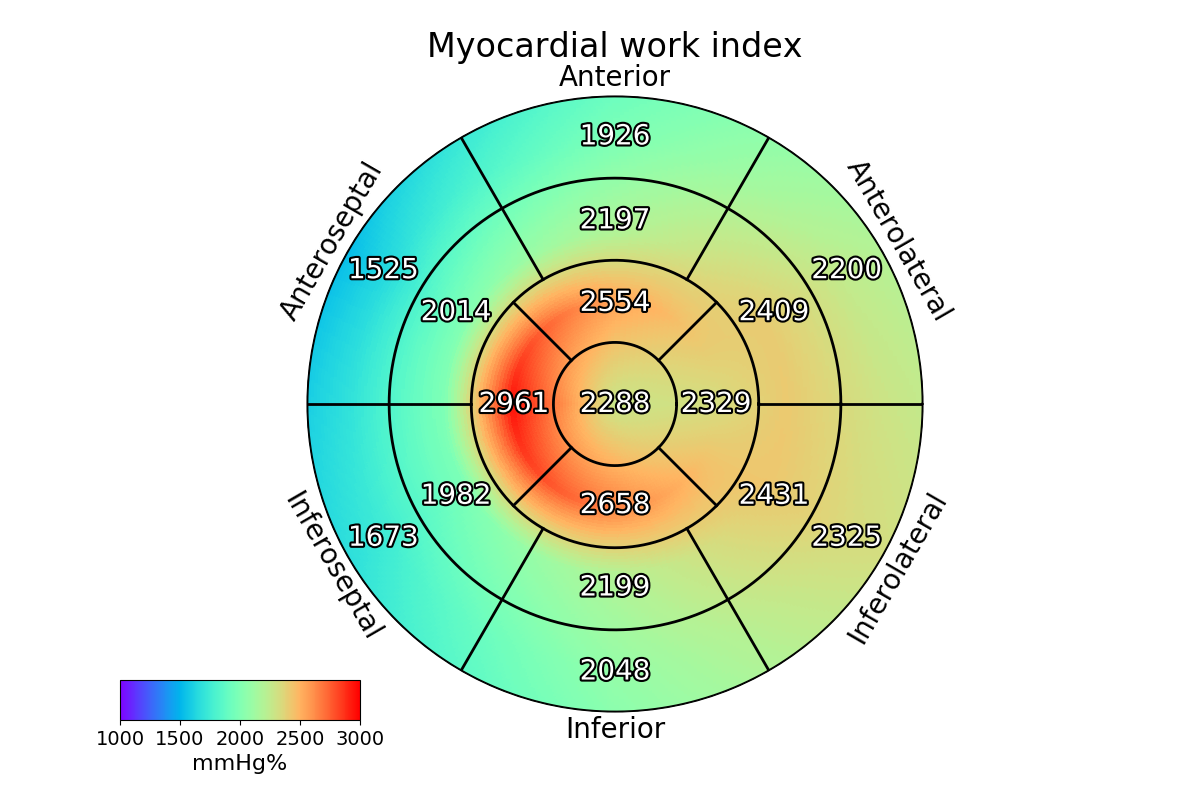
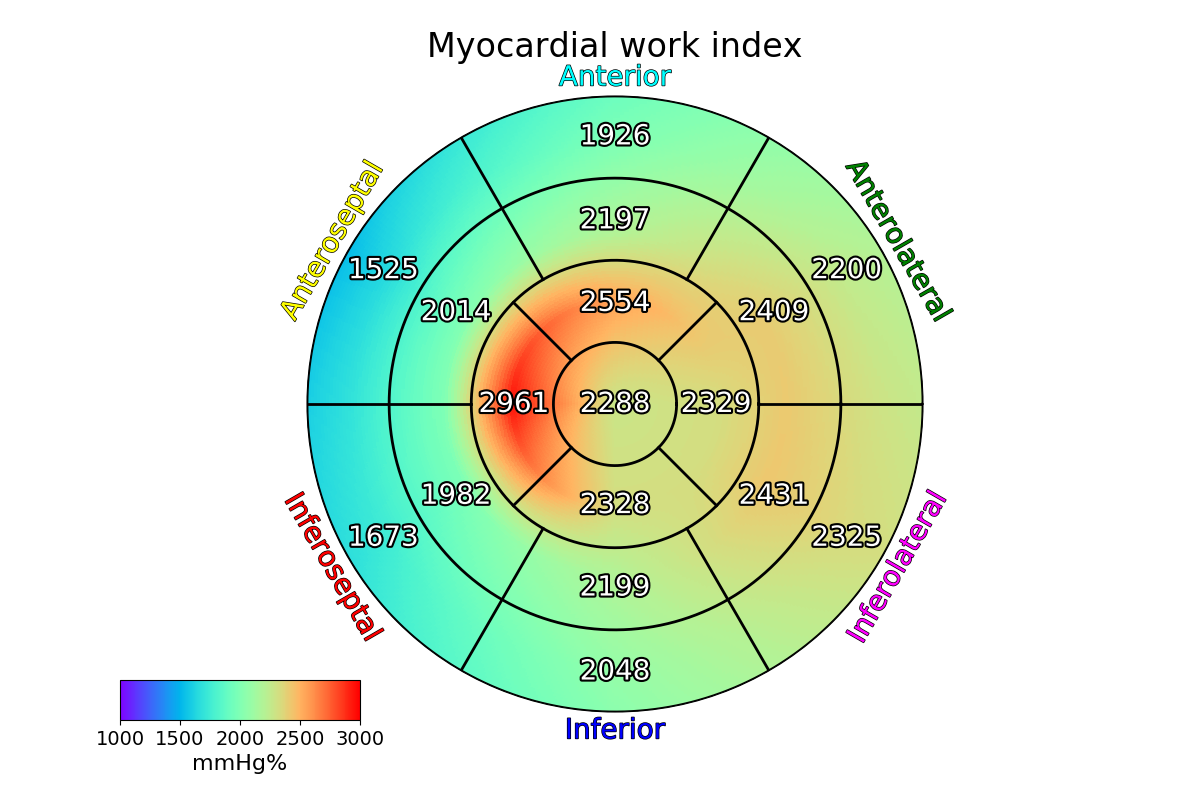
Color coded segment names

diff --git a/ahasmoothplot.py b/ahasmoothplot.py
@@ -42,6 +42,8 @@ class SmoothAHAPlot:
     # EchoPAC version of the names:
     ECHOP_SEGMENT_ABBRV = ['ANT', 'ANT_SEPT', 'SEPT', 'INF', 'POST', 'LAT']
 
+    COLORS = ['cyan', 'yellow', 'red', 'blue', 'magenta', 'green']
+
     def __init__(self, segments, output_path='', n_segments=17):
 
         assert n_segments in [17, 18], ('Please provide the correct number of segments for the plot: 17 or 18.'
@@ -282,16 +284,17 @@ class SmoothAHAPlot:
         # Annotate
         for i in range(6):
             # Segments 1-6
-            ax.text(np.deg2rad(i * 60) + np.deg2rad(seg_align_12), np.mean(r[73:]), int(self.seg_values[i]), fontsize=20,
-                    ha='center', va='center', color='w',
+            ax.text(np.deg2rad(i * 60) + np.deg2rad(seg_align_12), np.mean(r[73:]), int(self.seg_values[i]),
+                    fontsize=20, ha='center', va='center', color='w',
                     path_effects=[pef.Stroke(linewidth=3, foreground='k'), pef.Normal()])
             # Segments 7-12
-            ax.text(np.deg2rad(i * 60) + np.deg2rad(seg_align_12), np.mean(r[46:73]), int(self.seg_values[i+6]), fontsize=20,
-                    ha='center', va='center', color='w',
+            ax.text(np.deg2rad(i * 60) + np.deg2rad(seg_align_12), np.mean(r[46:73]), int(self.seg_values[i+6]),
+                    fontsize=20, ha='center', va='center', color='w',
                     path_effects=[pef.Stroke(linewidth=3, foreground='k'), pef.Normal()])
             # Segment names
             ax.text(np.deg2rad(i * 60) + np.deg2rad(seg_align_12), r[-1] + seg_names_pos[i], seg_names[i],
-                    fontsize=20, ha='center', va='center', rotation=rot[i])
+                    fontsize=20, ha='center', va='center', rotation=rot[i],
+                    color=self.COLORS[i], path_effects=[pef.Stroke(linewidth=1, foreground='k'), pef.Normal()])
         # Segments 13-16
         for i in range(4):
             ax.text(np.deg2rad(i * 90) + np.deg2rad(seg_align_13_16[i]), np.mean(r[20:46]), int(self.seg_values[i + 12]),
@@ -304,7 +307,7 @@ class SmoothAHAPlot:
 
         # -----Add plot featres-----------------------------------------------------------------------------------------
         # Create the axis for the colorbars
-        bar = fig.add_axes([0.1, 0.1, 0.2, 0.05])
+        bar = fig.add_axes([0.05, 0.1, 0.2, 0.05])
         cb1 = mpl.colorbar.ColorbarBase(bar, cmap=cmap, norm=norm, orientation='horizontal')
         cb1.set_label(units, size=16)
         cb1.ax.tick_params(labelsize=14, which='major')
@@ -409,9 +412,10 @@ class SmoothAHAPlot:
             ax.text(np.deg2rad(i * 60) + np.deg2rad(seg_align), 0.25, int(self.seg_values[i + 12]), fontsize=20,
                     ha='center', va='center', color='w',
                     path_effects=[pef.Stroke(linewidth=3, foreground='k'), pef.Normal()])
+            # Segment names
             ax.text(np.deg2rad(i * 60) + np.deg2rad(seg_align), r[-1] + seg_names_pos[i], seg_names[i],
-                    fontsize=20, ha='center', va='center', rotation=rot[i])
-
+                    fontsize=20, ha='center',  va='center', rotation=rot[i],
+                    color=self.COLORS[i], path_effects=[pef.Stroke(linewidth=1, foreground='k'), pef.Normal()])
         # Colour
         if smooth_contour and (self.levels is not None):
             cf = ax.contourf(theta0, r0, z, cmap=cmap, levels=self.levels)
@@ -422,7 +426,7 @@ class SmoothAHAPlot:
 
         # -----Add plot featres-----------------------------------------------------------------------------------------
         # Create the axis for the colorbars
-        bar = fig.add_axes([0.1, 0.1, 0.2, 0.05])
+        bar = fig.add_axes([0.05, 0.1, 0.2, 0.05])
         cb1 = mpl.colorbar.ColorbarBase(bar, cmap=cmap, norm=norm, orientation='horizontal')
         cb1.set_label(units, size=16)
         cb1.ax.tick_params(labelsize=14, which='major')

diff --git a/test_17.py b/test_17.py
@@ -3,7 +3,7 @@ import pandas as pd
 
 
 exp_strain_data = [-13, -14, -16, -20, -19, -18, -19, -23, -19, -21, -20, -20, -23, -22, -28, -25, -26]
-exp_mw_data = [1926, 1525, 1673, 2048, 2325, 2200, 2197, 2014, 1982, 2199, 2431, 2409, 2554, 2961, 2658, 2329, 2288]
+exp_mw_data = [1926, 1525, 1673, 2048, 2325, 2200, 2197, 2014, 1982, 2199, 2431, 2409, 2554, 2961, 2328, 2329, 2288]
 n_seg = 17
 echop = False
 segments_17 = ['Basal Anterior', 'Basal Anteroseptal', 'Basal Inferoseptal',
